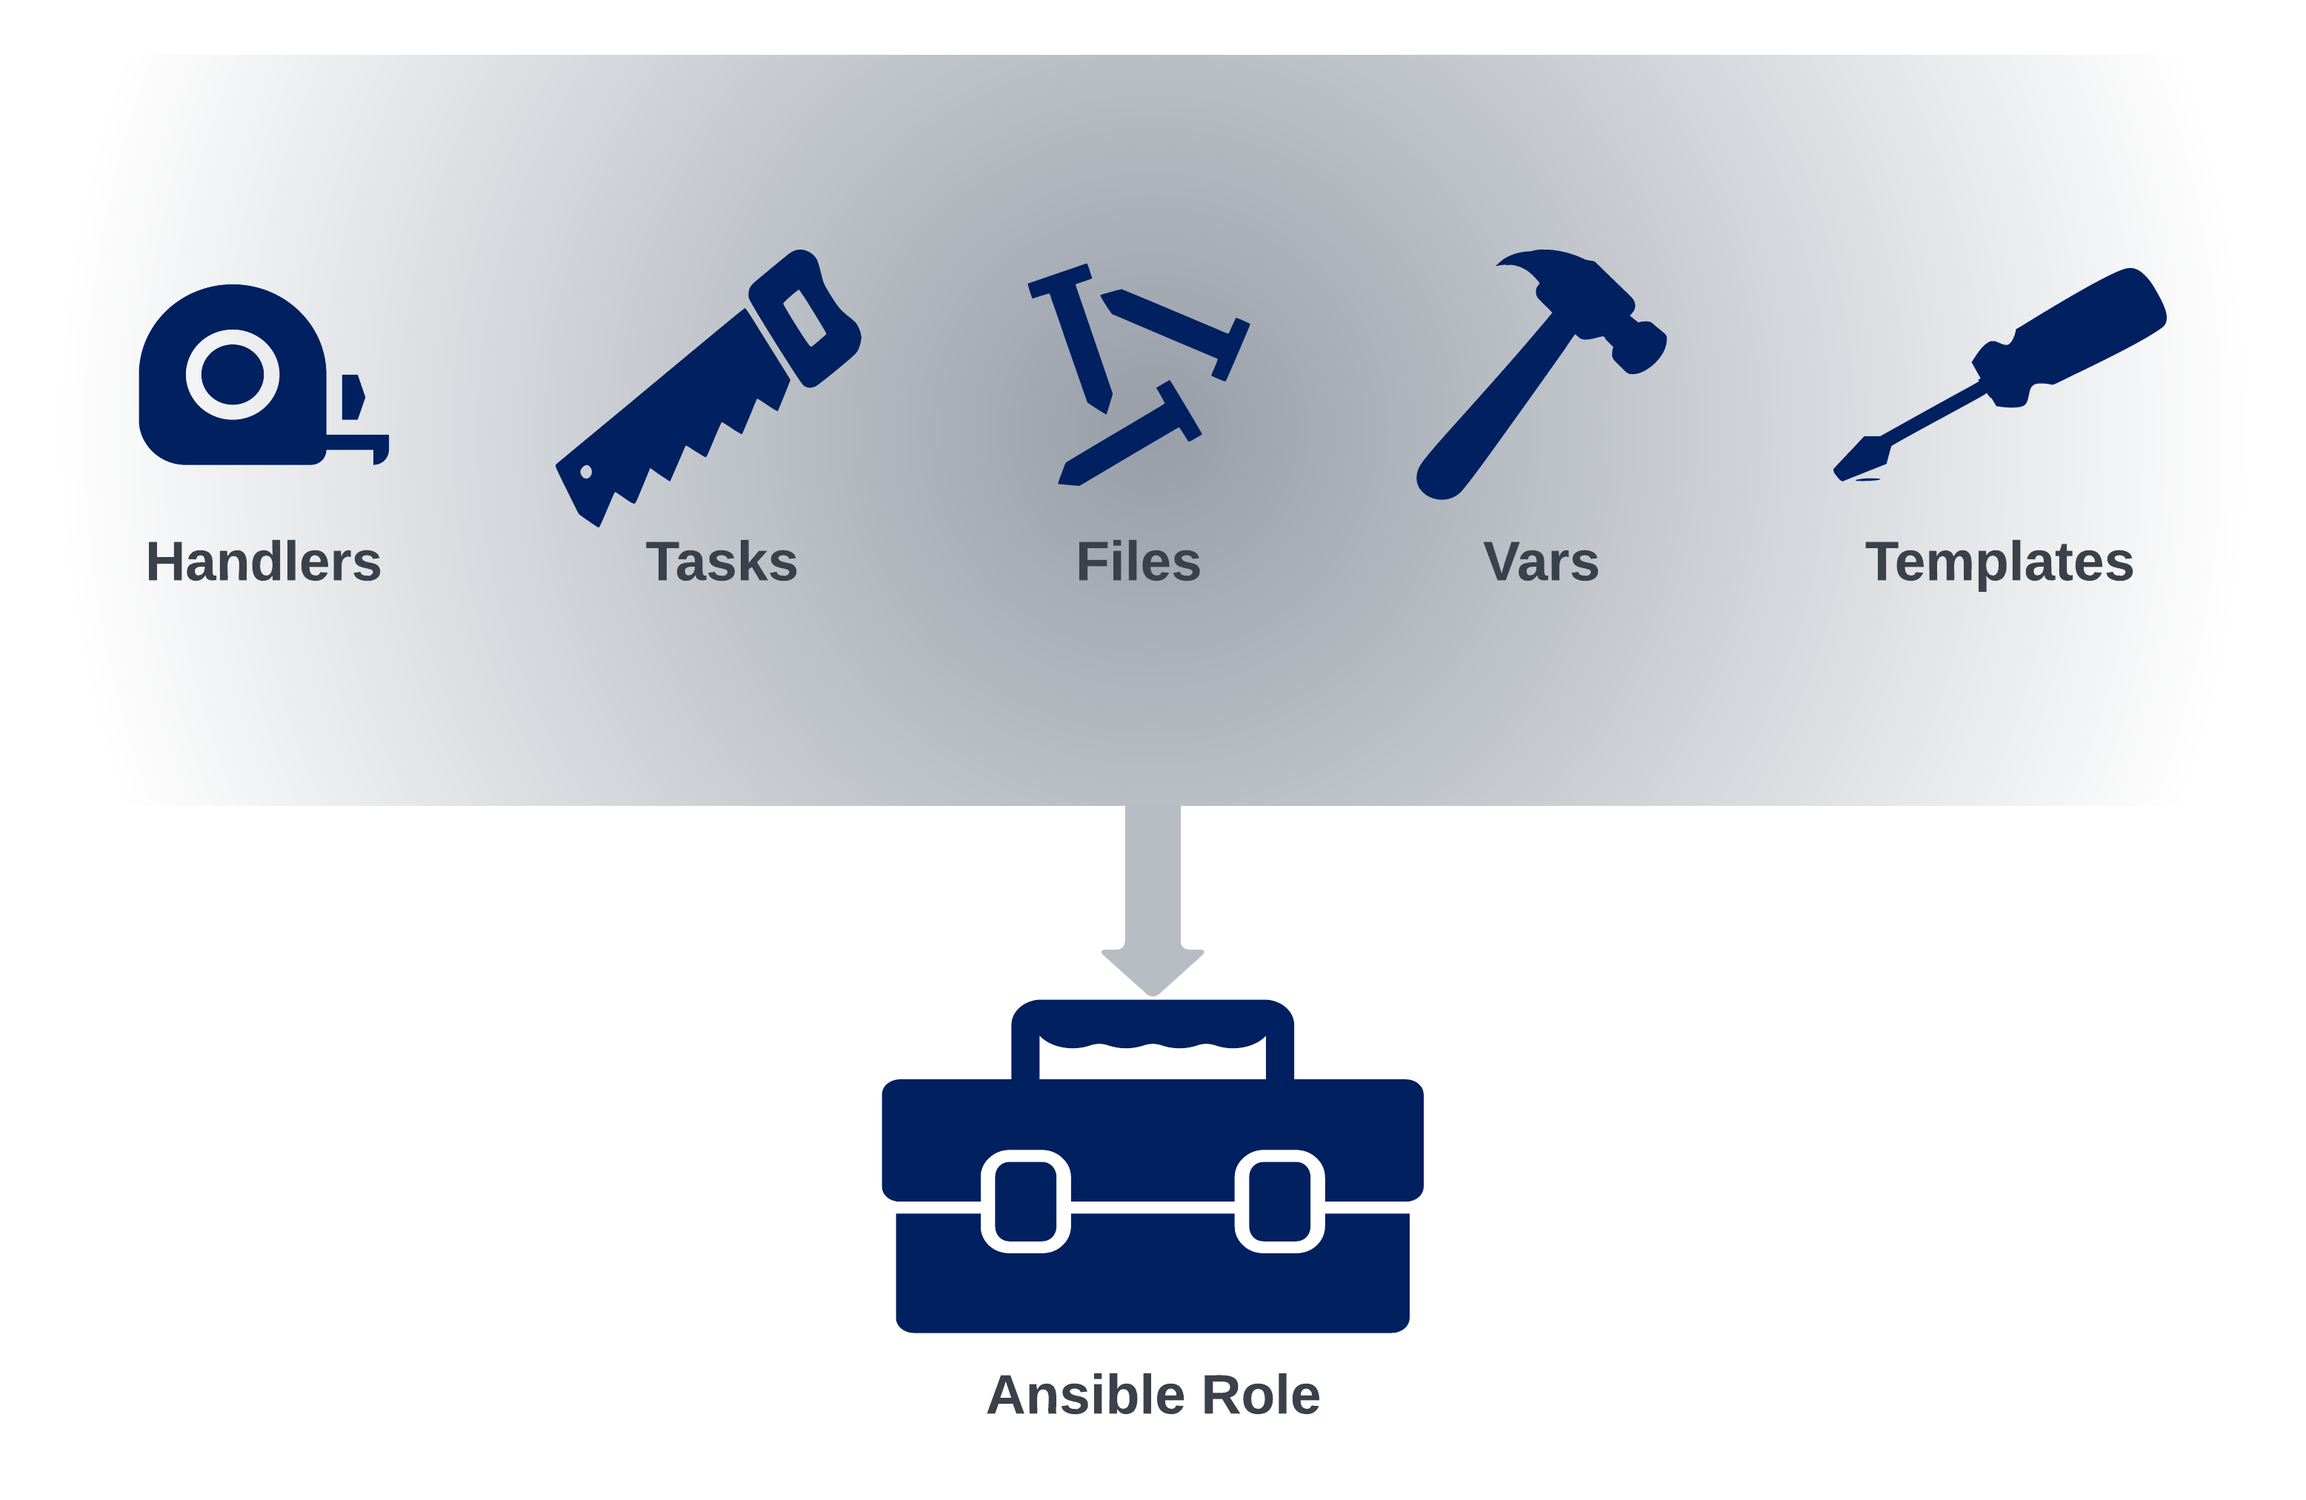
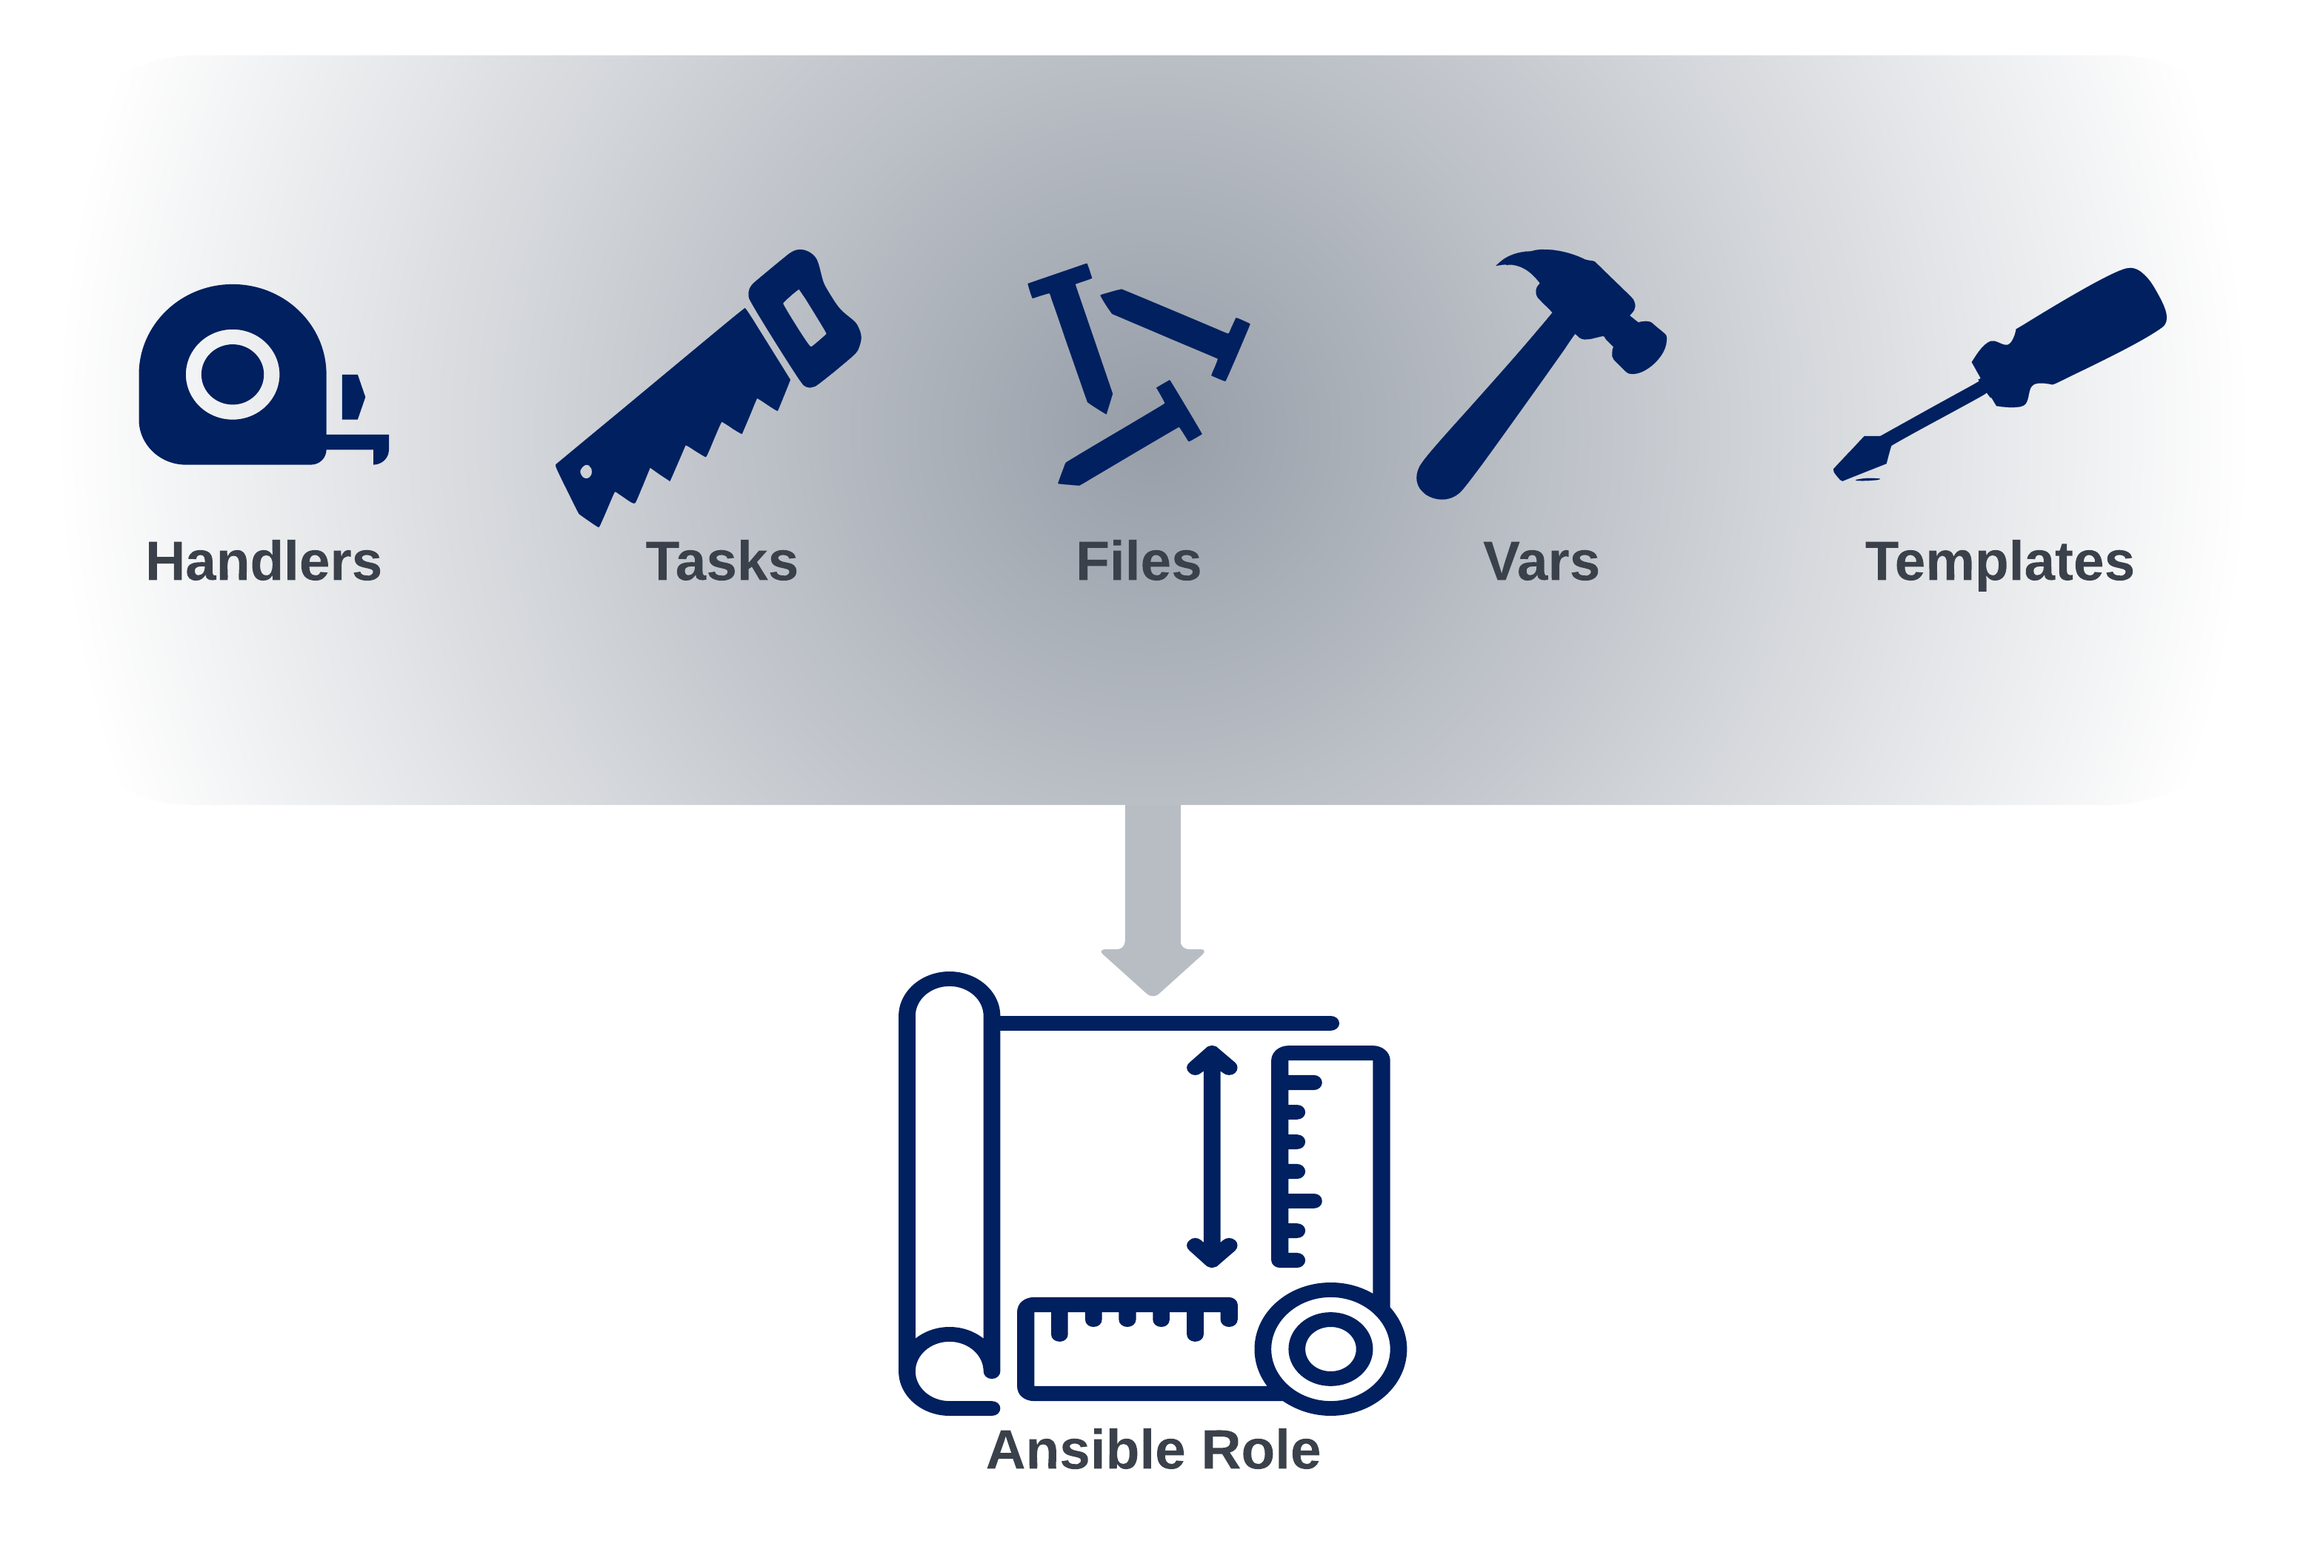
ansible roles image update

diff --git a/workshops/ansible.md b/workshops/ansible.md
@@ -628,4 +628,4 @@ Go forth and explore!
 
 Ansible roles allow us to neatly pack all of the tasks, templates, files, etc. that we used to accomplish a task, into a nice reusable format. An example of this could be a standardized method for installing nginx or apache on a server. Or, as we'll see in our labs, deploying an MLAG domain configuration on Arista switches.
 
-Ultimately, Ansible Roles can be seen as a blueprint to not only automate, but standardize, our repeatable tasks; Complete with a toolbox containing all the necessary tools to get the job done.
+Ultimately, Ansible Roles can be seen as a blueprint to not only automate, but standardize, our repeatable tasks.
